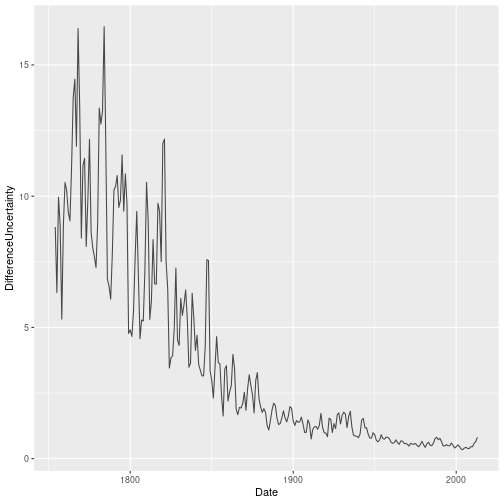
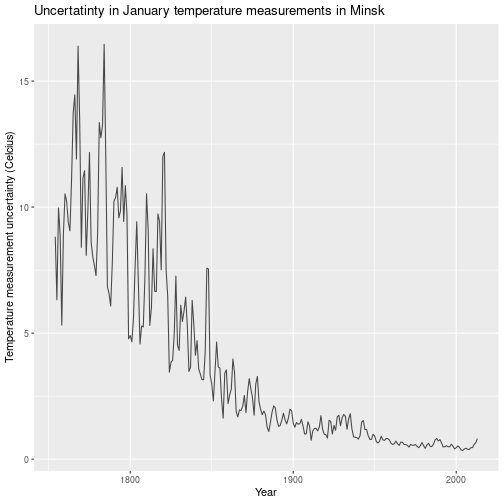
better markdown formatting

diff --git a/workspace.md b/workspace.md
@@ -1,9 +1,9 @@
 
 
 
-## Climate Change Analysis
+# Climate Change Analysis
 
-### Set Preliminaries
+## Set Preliminaries
 
 
 ```r
@@ -39,7 +39,7 @@ head(city_data)
 ## 6   57.05N    10.33E
 ```
 
-### EDA
+## EDA
 
 There are records for several thousand cities here, each with regular monthly average temperature and uncertainty readings. It will be easier to focus on one city to begin with.
 
@@ -182,15 +182,16 @@ However, it is possible we can statistically test for a significant increase ove
 time, which would indicate provable evidence of global warming.</p>
 
 
-### Statistical Testing
+## Statistical Testing
 
 <p>I will first try a basic test, asking if the yearly difference sequence has a mean greater than zero, which would certainly imply increase in temperature over time. I will be using a significance level of \alpha = 0.05. I will perform this test on each month in turn, thus obtaining 12 complete tests for each location.</p>
 
-<p>Some alternative methods include the following:
+<p>Some alternative methods include the following:</p>
+
 * Define a suitable year range (e.g. 1750-1900) as a "control" period, and testing if recent measurements fit within the control temperature distribution.
 * Take only the yearly highest temperatures, and perform the difference sequence test.
 
-#### Difference Sequence Generation
+### Difference Sequence Generation
 
 First, obtain seperate data for each month and then convert the absolute data into yearly differences:
 
@@ -252,27 +253,32 @@ ggplot() + geom_point(data = minsk_data_month_diff[["Jan"]], aes(x = Date, y = D
 ![plot of chunk unnamed-chunk-13](Figures/EDA/EDA-unnamed-chunk-13-1.png)
 
 ```r
-ggplot() + geom_line(data = minsk_data_month_diff[["Jan"]], aes(x = Date, y = DifferenceUncertainty), alpha = 0.7)
+ggplot() + geom_line(data = minsk_data_month_diff[["Jan"]], aes(x = Date, y = DifferenceUncertainty), alpha = 0.7) + ggtitle("Uncertatinty in January temperature measurements in Minsk") + xlab("Year") + ylab("Temperature measurement uncertainty (Celcius)")
 ```
 
 ![plot of chunk unnamed-chunk-13](Figures/EDA/EDA-unnamed-chunk-13-2.png)
 
-We need to bear uncertainty in mind, since the error in this data is quite significant. By taking the difference between two seperate measurements, we combine the error, which means the difference scores for earlier years are particularly uncertain, and this may cast doubt on any conclusions we make. Here we can see a portion of the difference sequence with uncertainty included:
+We need to bear uncertainty in mind, since the error in this data is quite significant. By taking the difference between two seperate measurements, we combine the error, which means the difference scores for earlier years will be particularly large, and this may cast doubt on any conclusions we are able to make. This is illustrated here by two sections of the January temperature difference series with uncertainty displayed, taken from early and late periods of recording respectively:
 
 
 ```r
-minsk_jan_reduced=minsk_data_month_diff[["Jan"]][c(50:100),]
-ggplot(minsk_jan_reduced) + geom_point(aes(x = Date, y = Difference))  + geom_errorbar(aes(x = Date, y = Difference, ymin=Difference-DifferenceUncertainty, ymax=Difference+DifferenceUncertainty))
+ggplot(minsk_data_month_diff[["Jan"]][c(50:100),]) + geom_point(aes(x = Date, y = Difference))  + geom_errorbar(aes(x = Date, y = Difference, ymin=Difference-DifferenceUncertainty, ymax=Difference+DifferenceUncertainty)) +ggtitle("Difference sequence for January in Minsk with error, 1803-1853") + xlab("Year") + ylab("Temperature Difference (Celcius)") + ylim(-15,15)
 ```
 
 ![plot of chunk unnamed-chunk-14](Figures/EDA/EDA-unnamed-chunk-14-1.png)
 
-#### Hypothesis Testing
+```r
+ggplot(minsk_data_month_diff[["Jan"]][c(200:250),]) + geom_point(aes(x = Date, y = Difference))  + geom_errorbar(aes(x = Date, y = Difference, ymin=Difference-DifferenceUncertainty, ymax=Difference+DifferenceUncertainty)) +ggtitle("Difference sequence for January in Minsk with error, 1953-2003") + xlab("Year") + ylab("Temperature Difference (Celcius)") + ylim(-15,15)
+```
+
+![plot of chunk unnamed-chunk-14](Figures/EDA/EDA-unnamed-chunk-14-2.png)
+
+### Hypothesis Testing
 
 Now that we have our transformed difference sequence (X_1_,X_2_,...,X_N_), I will divide by the empirical standard deviation and test the following hypothesis.
 
-* H_0_: X_1_,...,X_N_ ~ i.i.d normal(0,1)
-* H_1_: X_1_,...,X_N_ ~ i.i.d normal(`\mu`,1)   where `\mu > 0`
+* $H_0_: X_1_,...,X_N_$ ~ i.i.d normal(0,1)
+* $H_1_: X_1_,...,X_N_$ ~ i.i.d normal($\mu$,1)   where $\mu > 0$
 
 We want our test statistic here to be the most powerful possible (smallest type II error rate), which by the Neyman-Pearson Lemma is equivelant the mean of the difference sequence. For a proof of this, please see Section A in the appendix. With my data split into months, I can gather 12 p-values per year of data.
 
